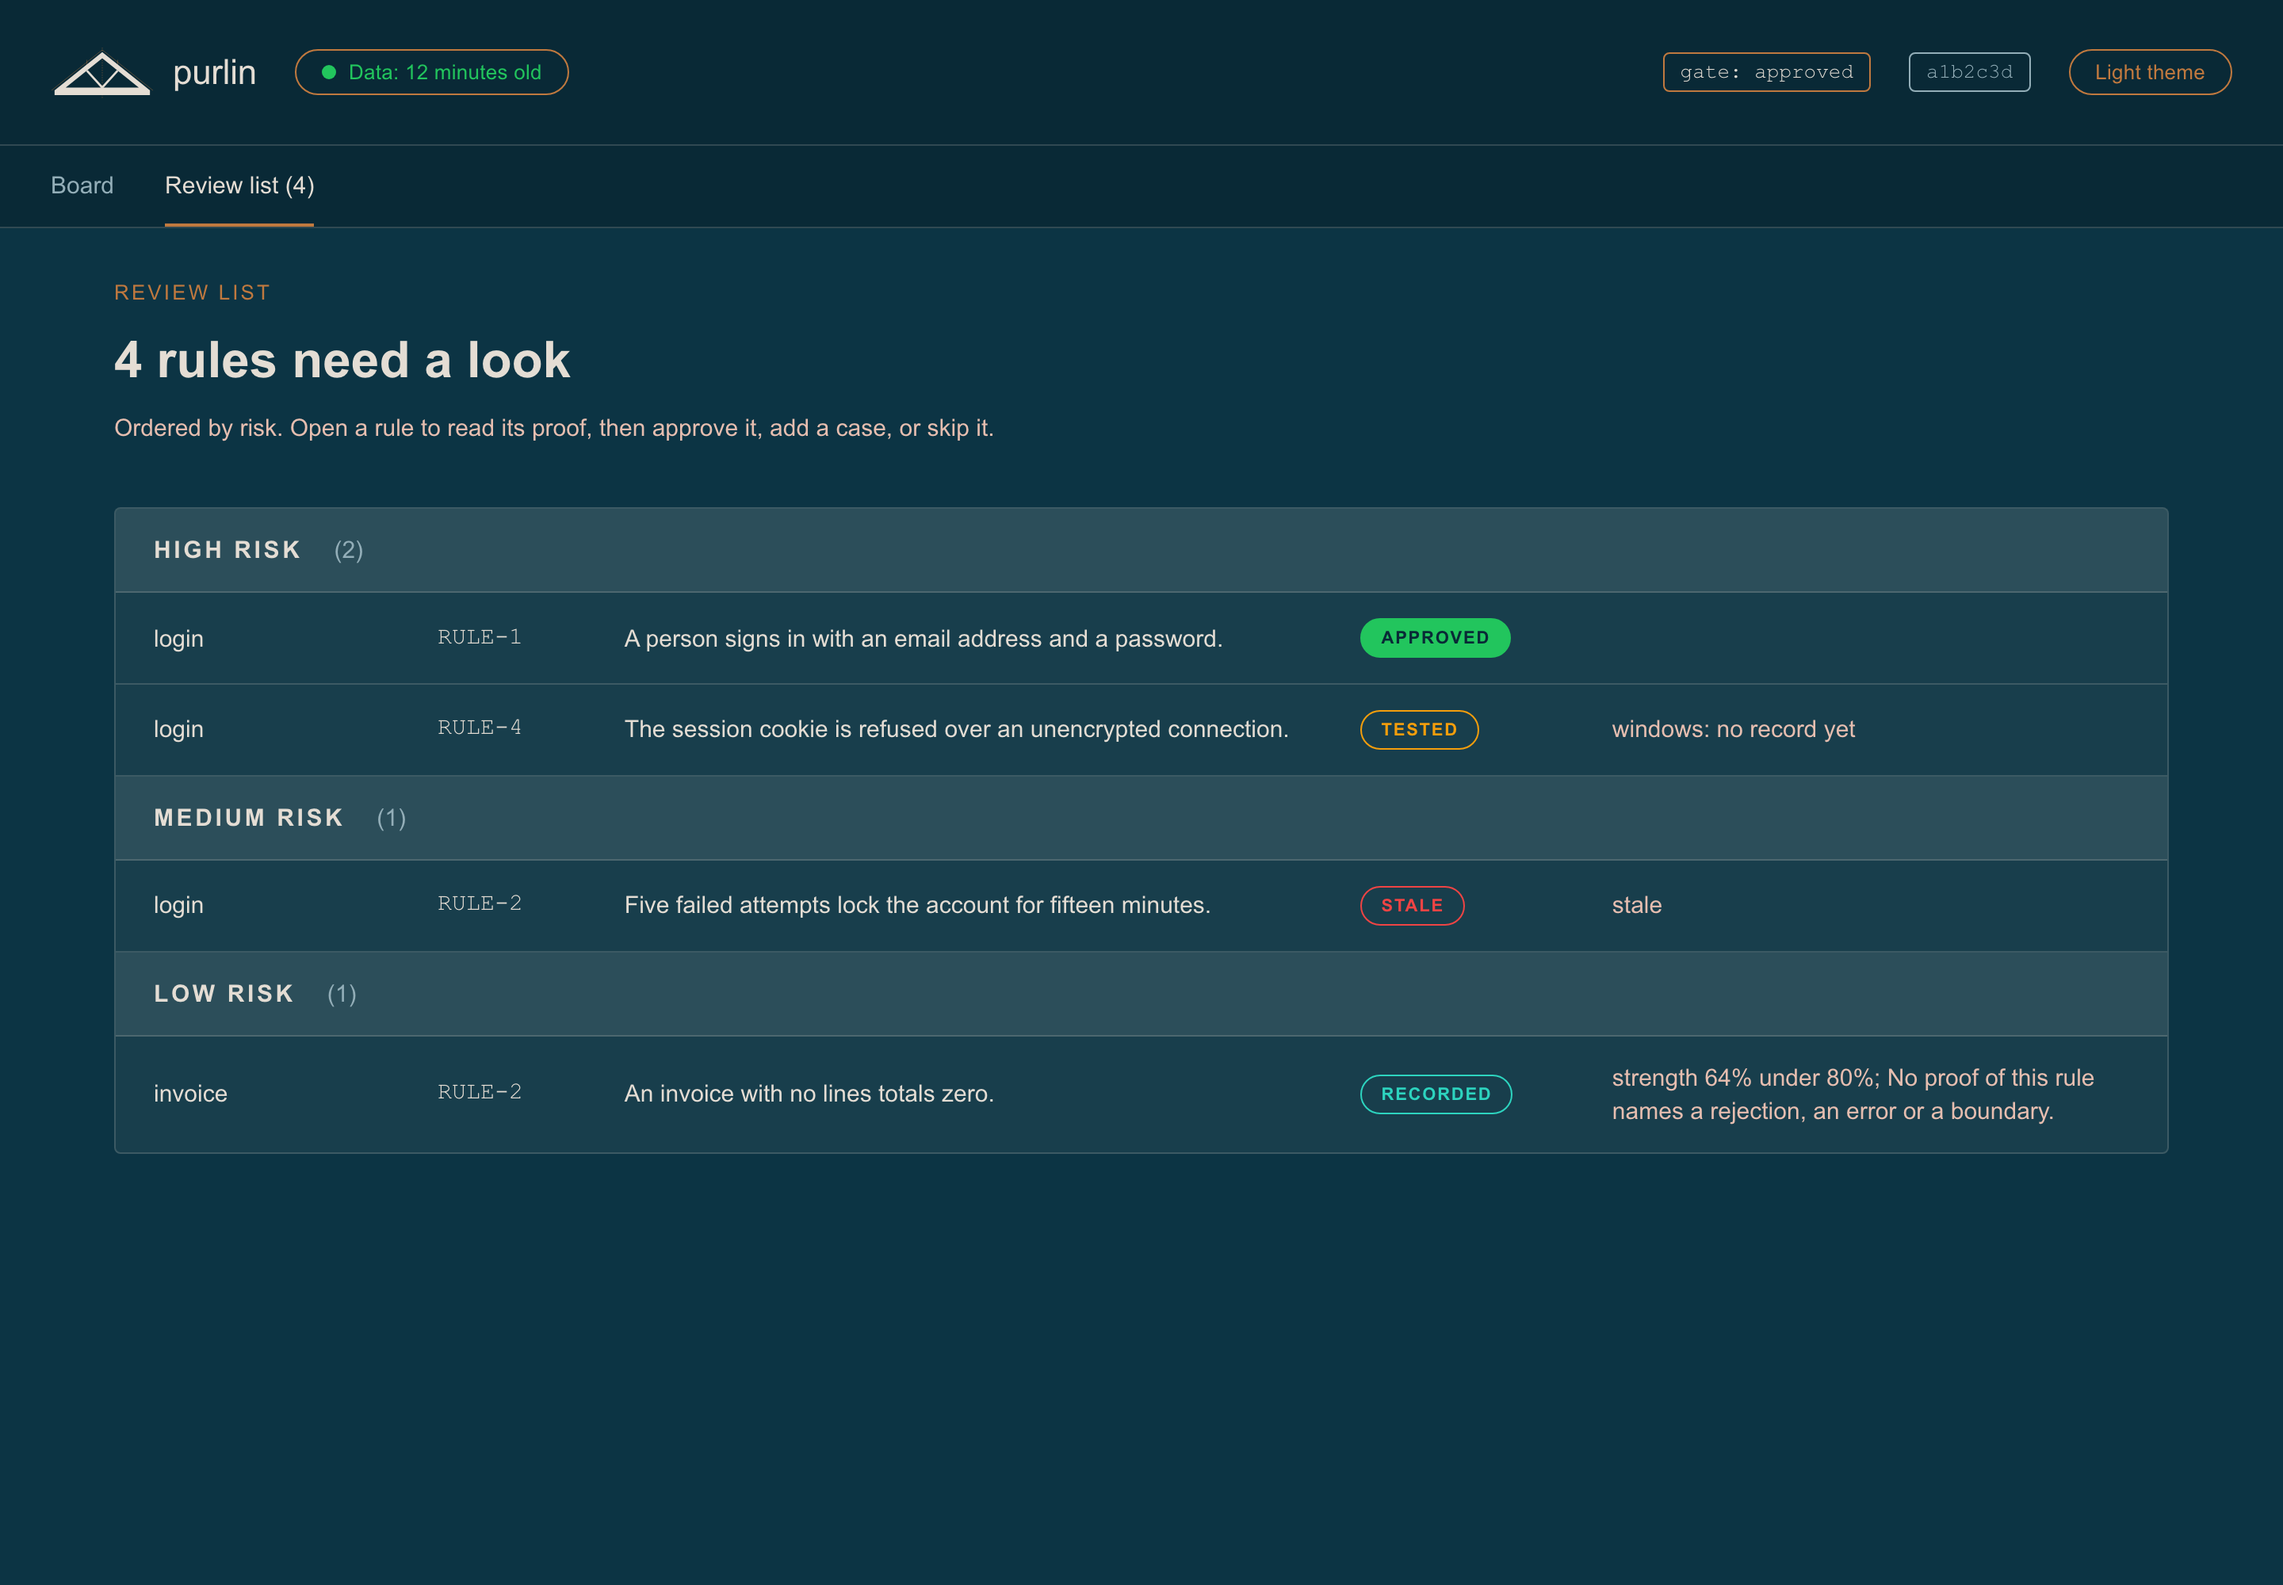
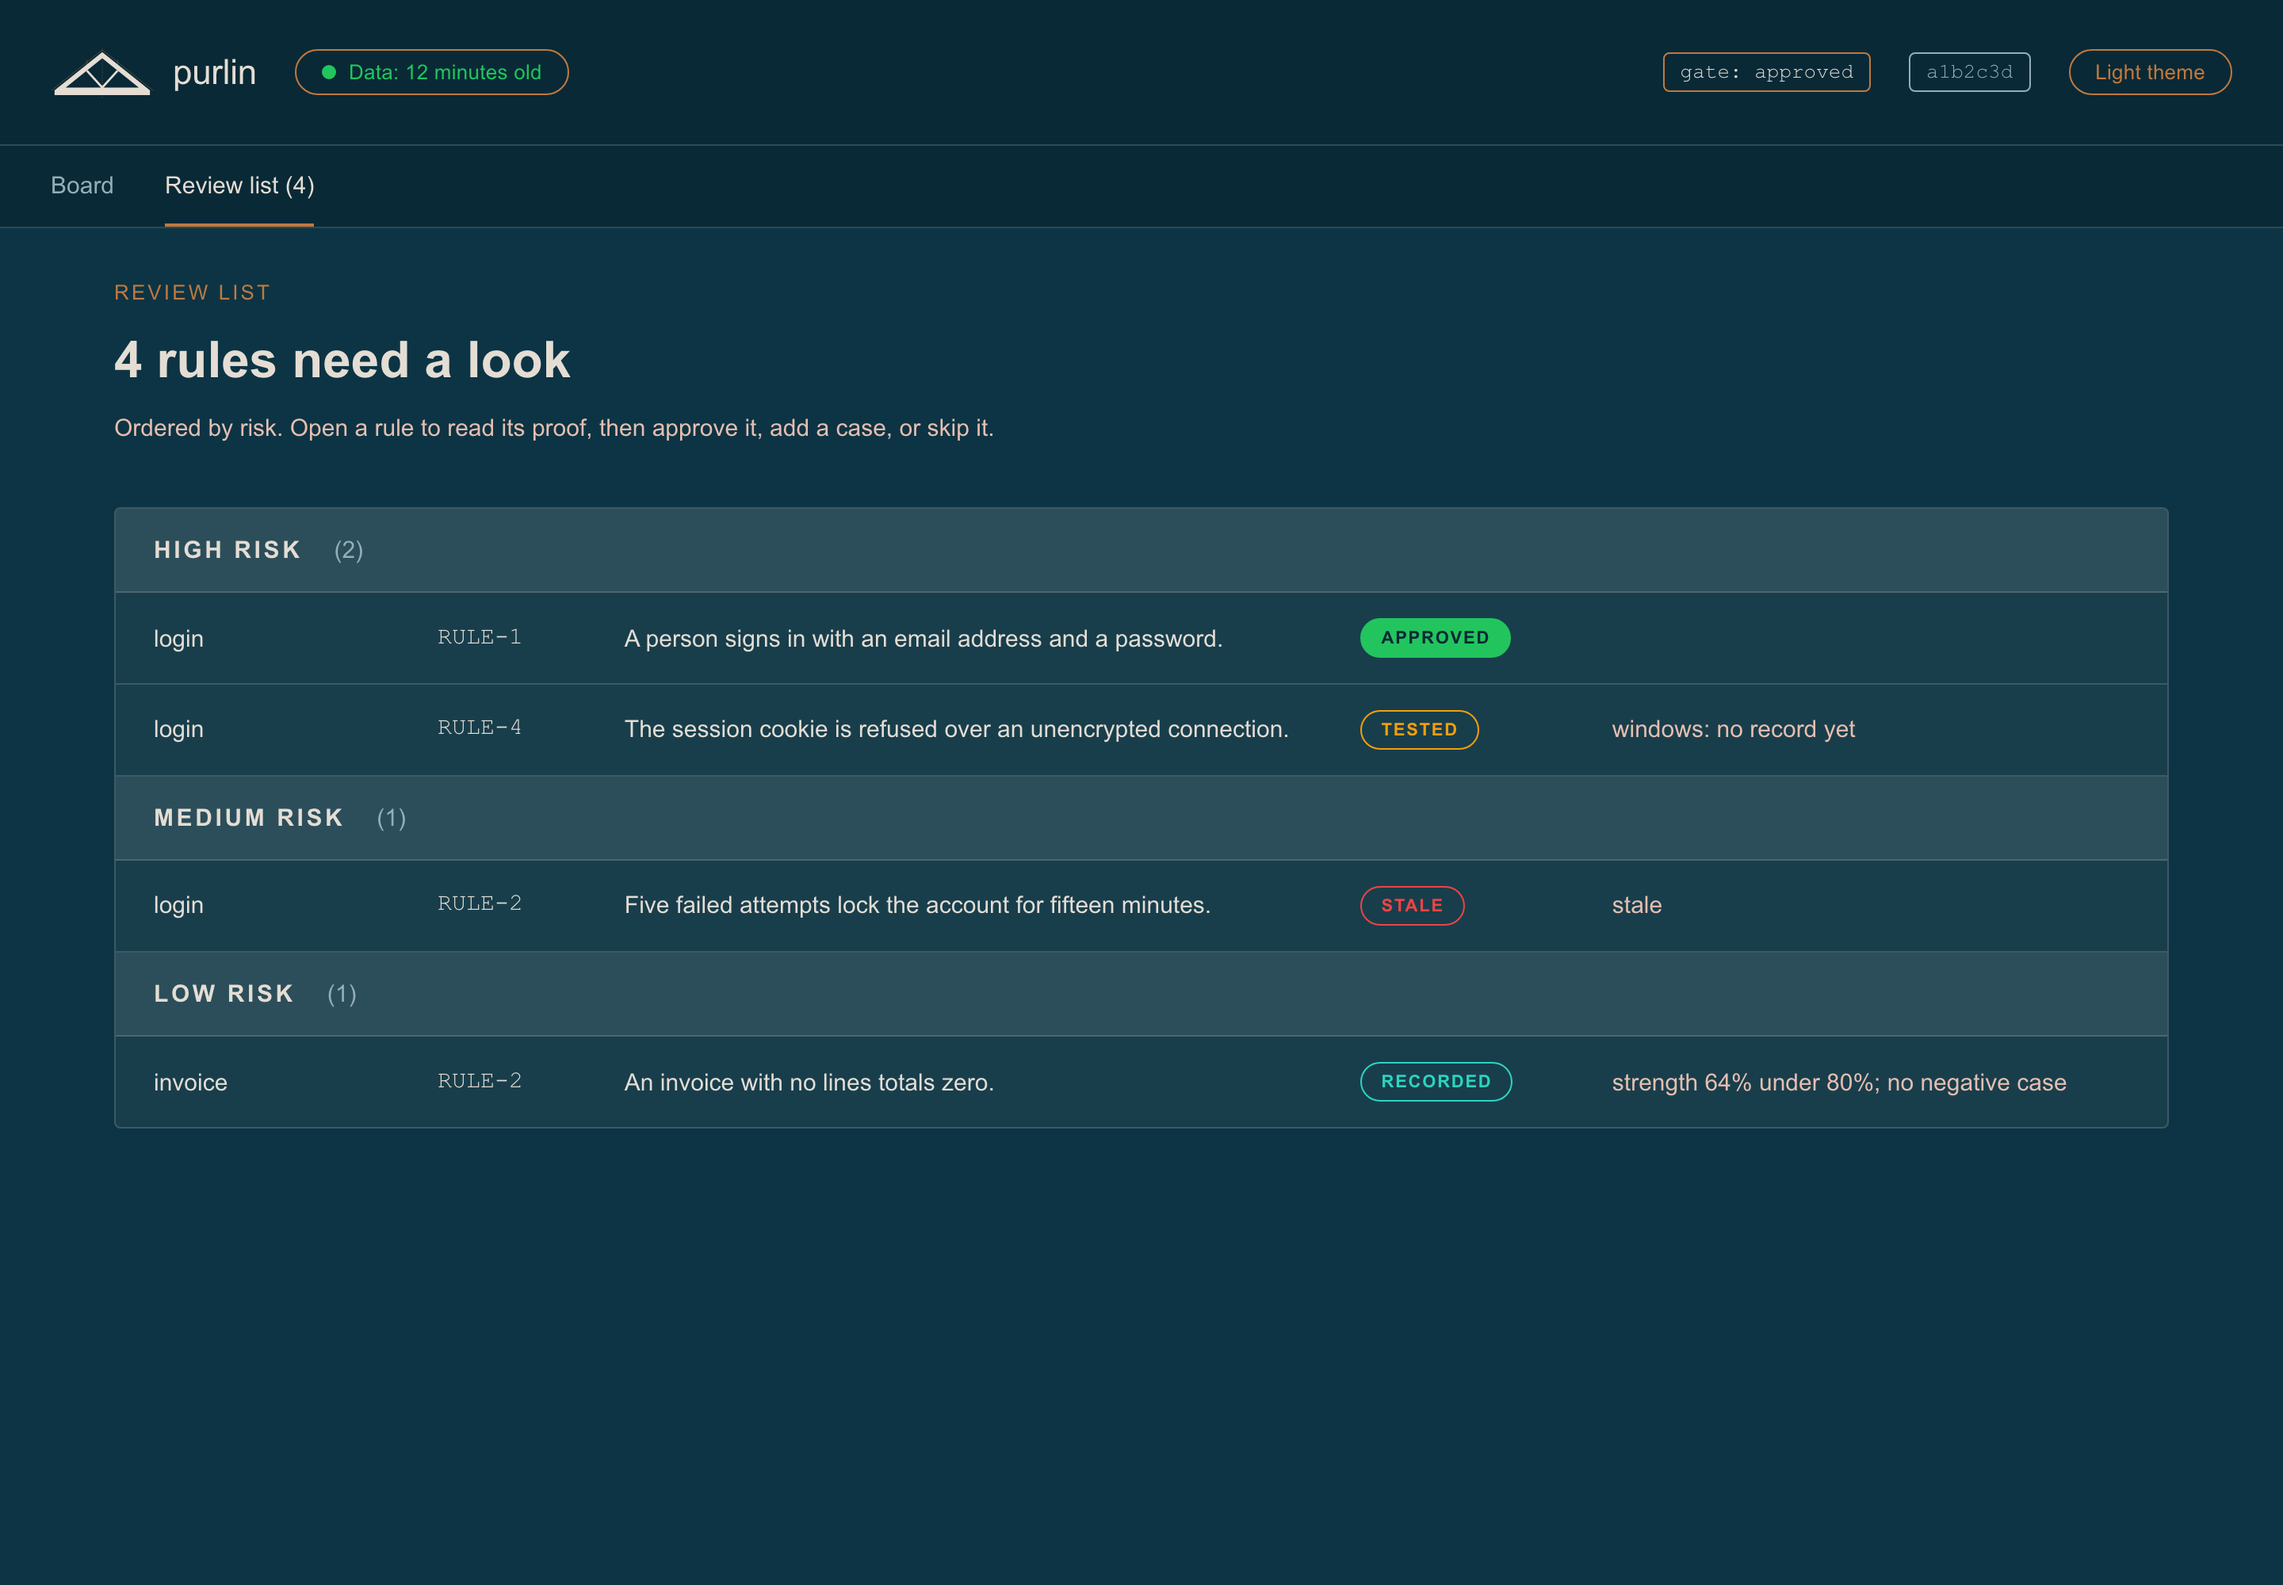
feat(purlin_report): a review row names a finding by its short label
The full sentence of an advisory finding repeated on most rows of the list. The row now
carries the short label (no negative case); the Rule screen keeps the sentence.

Claude-Session: https://claude.ai/code/session_01PA1RaoK77G1rNdVdQbavg6

diff --git a/scripts/report/src/review.js b/scripts/report/src/review.js
@@ -27,12 +27,12 @@ function reviewRule(entry) {
 
 /* The reasons worth printing beside a row: the risk is the group it sits in,
    so repeating it would read the same on every row under that header. A free
-   check is read out as the sentence the checks already write. */
+   check is read out by its short label; the Rule screen carries the sentence. */
 function reviewRowReasons(entry) {
   var reasons = [];
   (entry.reasons || []).forEach(function (reason) {
     if (/^risk (high|medium|low)$/.test(reason)) { return; }
-    reasons.push(findingText(reason));
+    reasons.push(findingLabel(reason));
   });
   return reasons;
 }

diff --git a/scripts/report/purlin-report.html b/scripts/report/purlin-report.html
@@ -711,7 +711,7 @@ function reviewRowReasons(entry) {
   var reasons = [];
   (entry.reasons || []).forEach(function (reason) {
     if (/^risk (high|medium|low)$/.test(reason)) { return; }
-    reasons.push(findingText(reason));
+    reasons.push(findingLabel(reason));
   });
   return reasons;
 }

diff --git a/dev/test_purlin_report.py b/dev/test_purlin_report.py
@@ -452,8 +452,7 @@ def test_a_row_states_every_reason_the_group_does_not(browser, tmp_path):
     assert reasons[('login', 'RULE-4')] == 'windows: no record yet'
     assert reasons[('login', 'RULE-2')] == 'stale'
     assert reasons[('invoice', 'RULE-2')] == (
-        'strength 64% under 80%; No proof of this rule names a rejection, '
-        'an error or a boundary.')
+        'strength 64% under 80%; no negative case')
     page.close()
 
 
